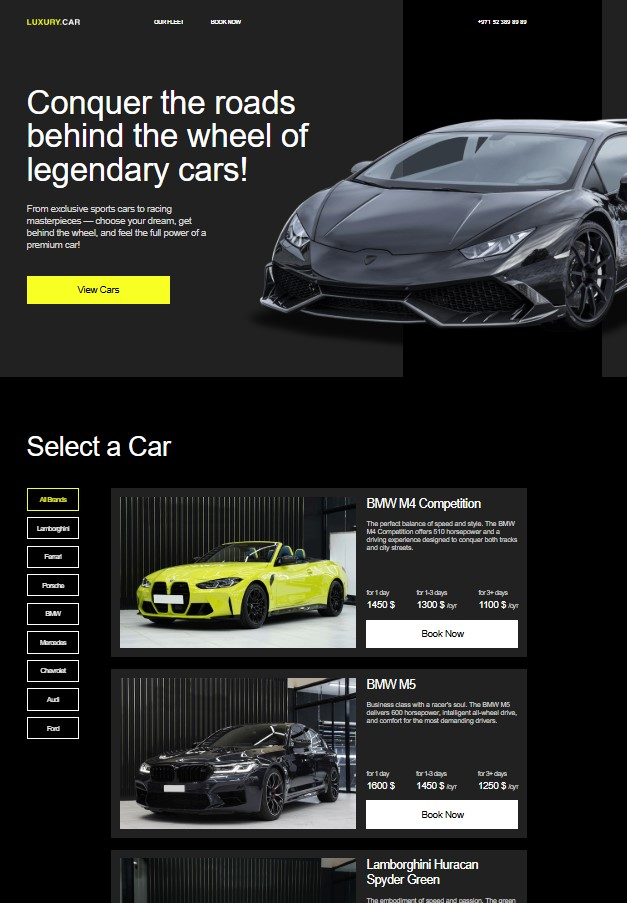
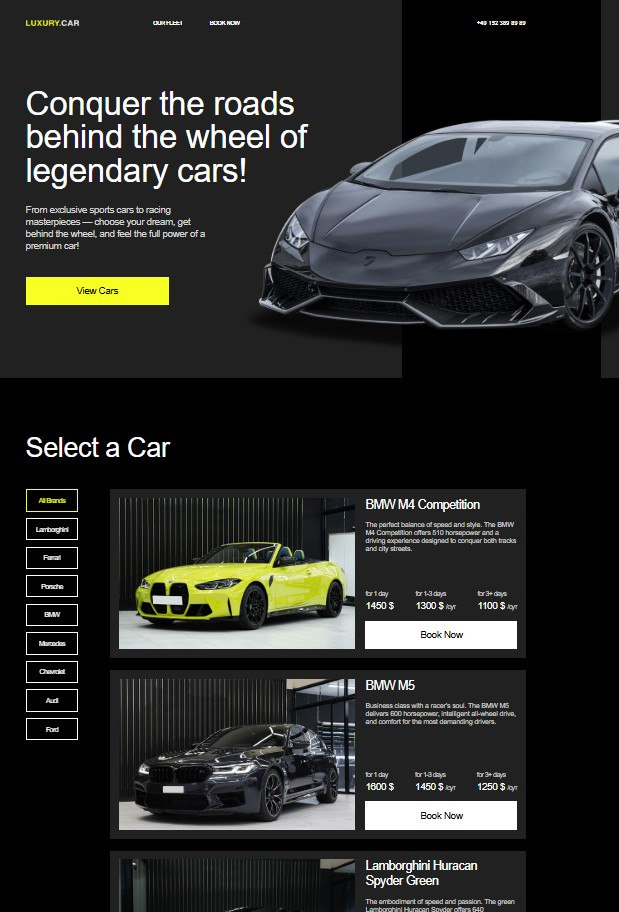
fixed phone

diff --git a/index.html b/index.html
@@ -24,7 +24,7 @@
               </li>
             </ul>
           </nav>
-          <a href="tel:+971523898989" class="phone">+971 52 389 89 89</a>
+          <a href="tel:+491523898989" class="phone">+49 152 389 89 89</a>
         </div>
       </header>
       <section class="main-content">
